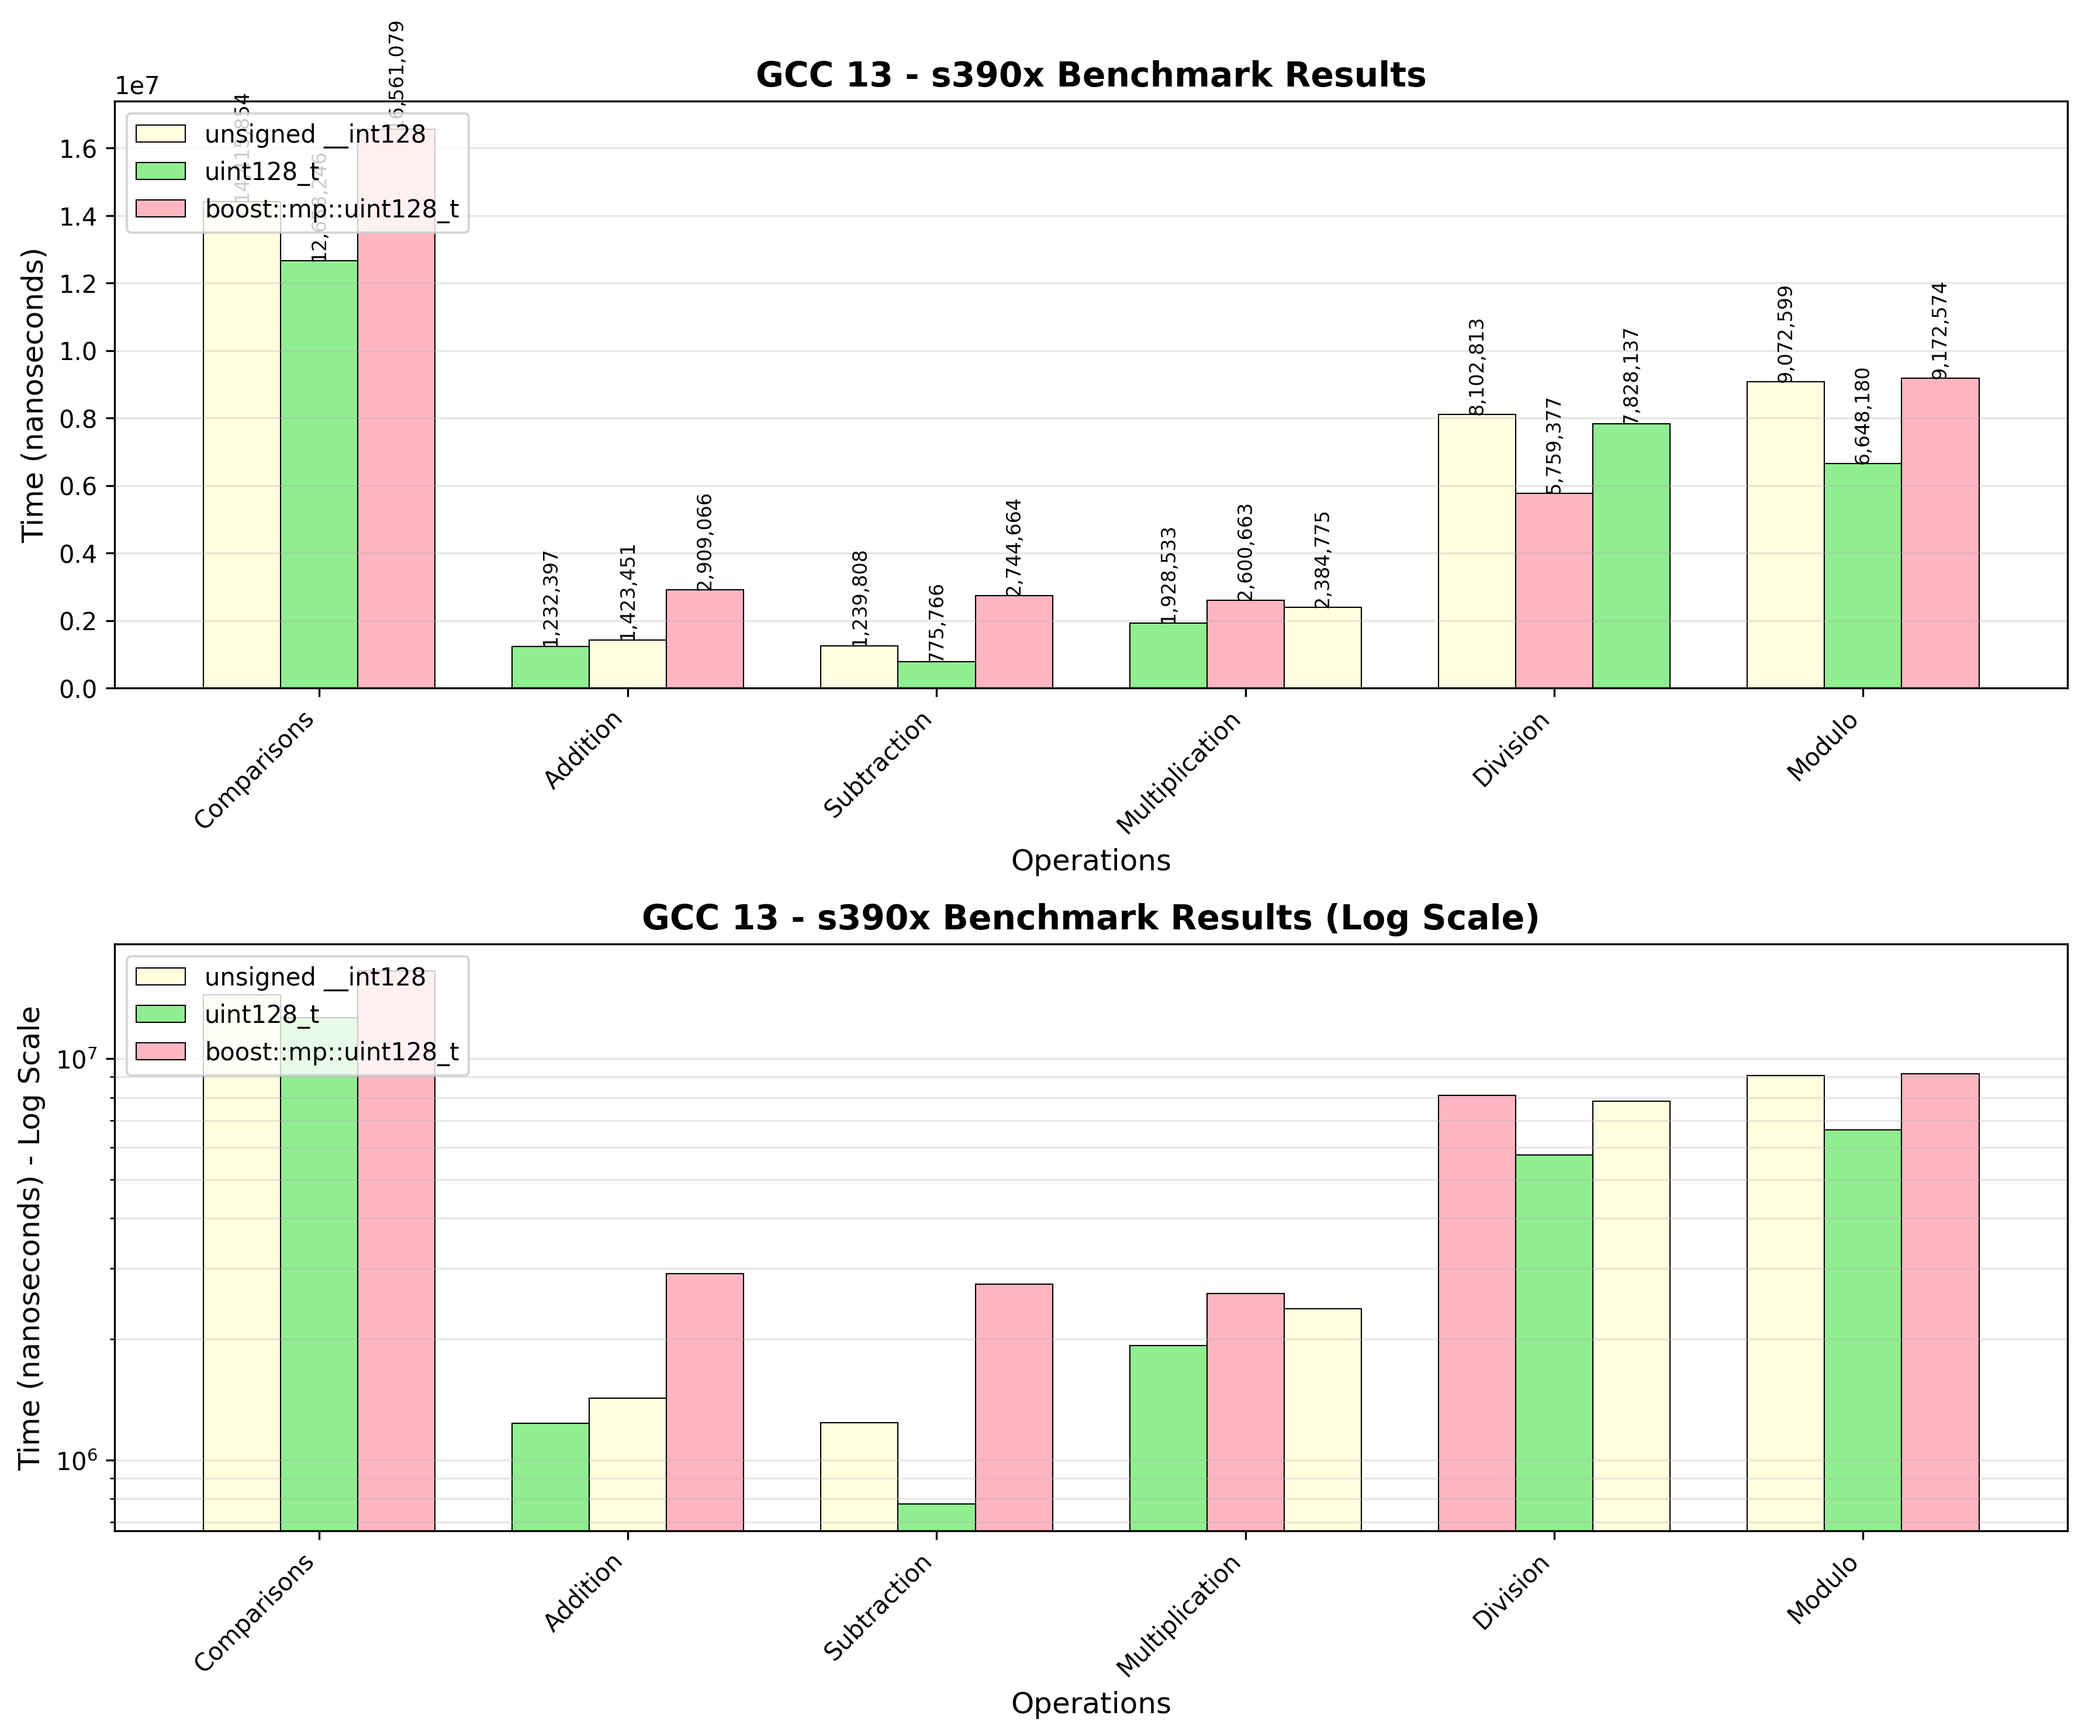
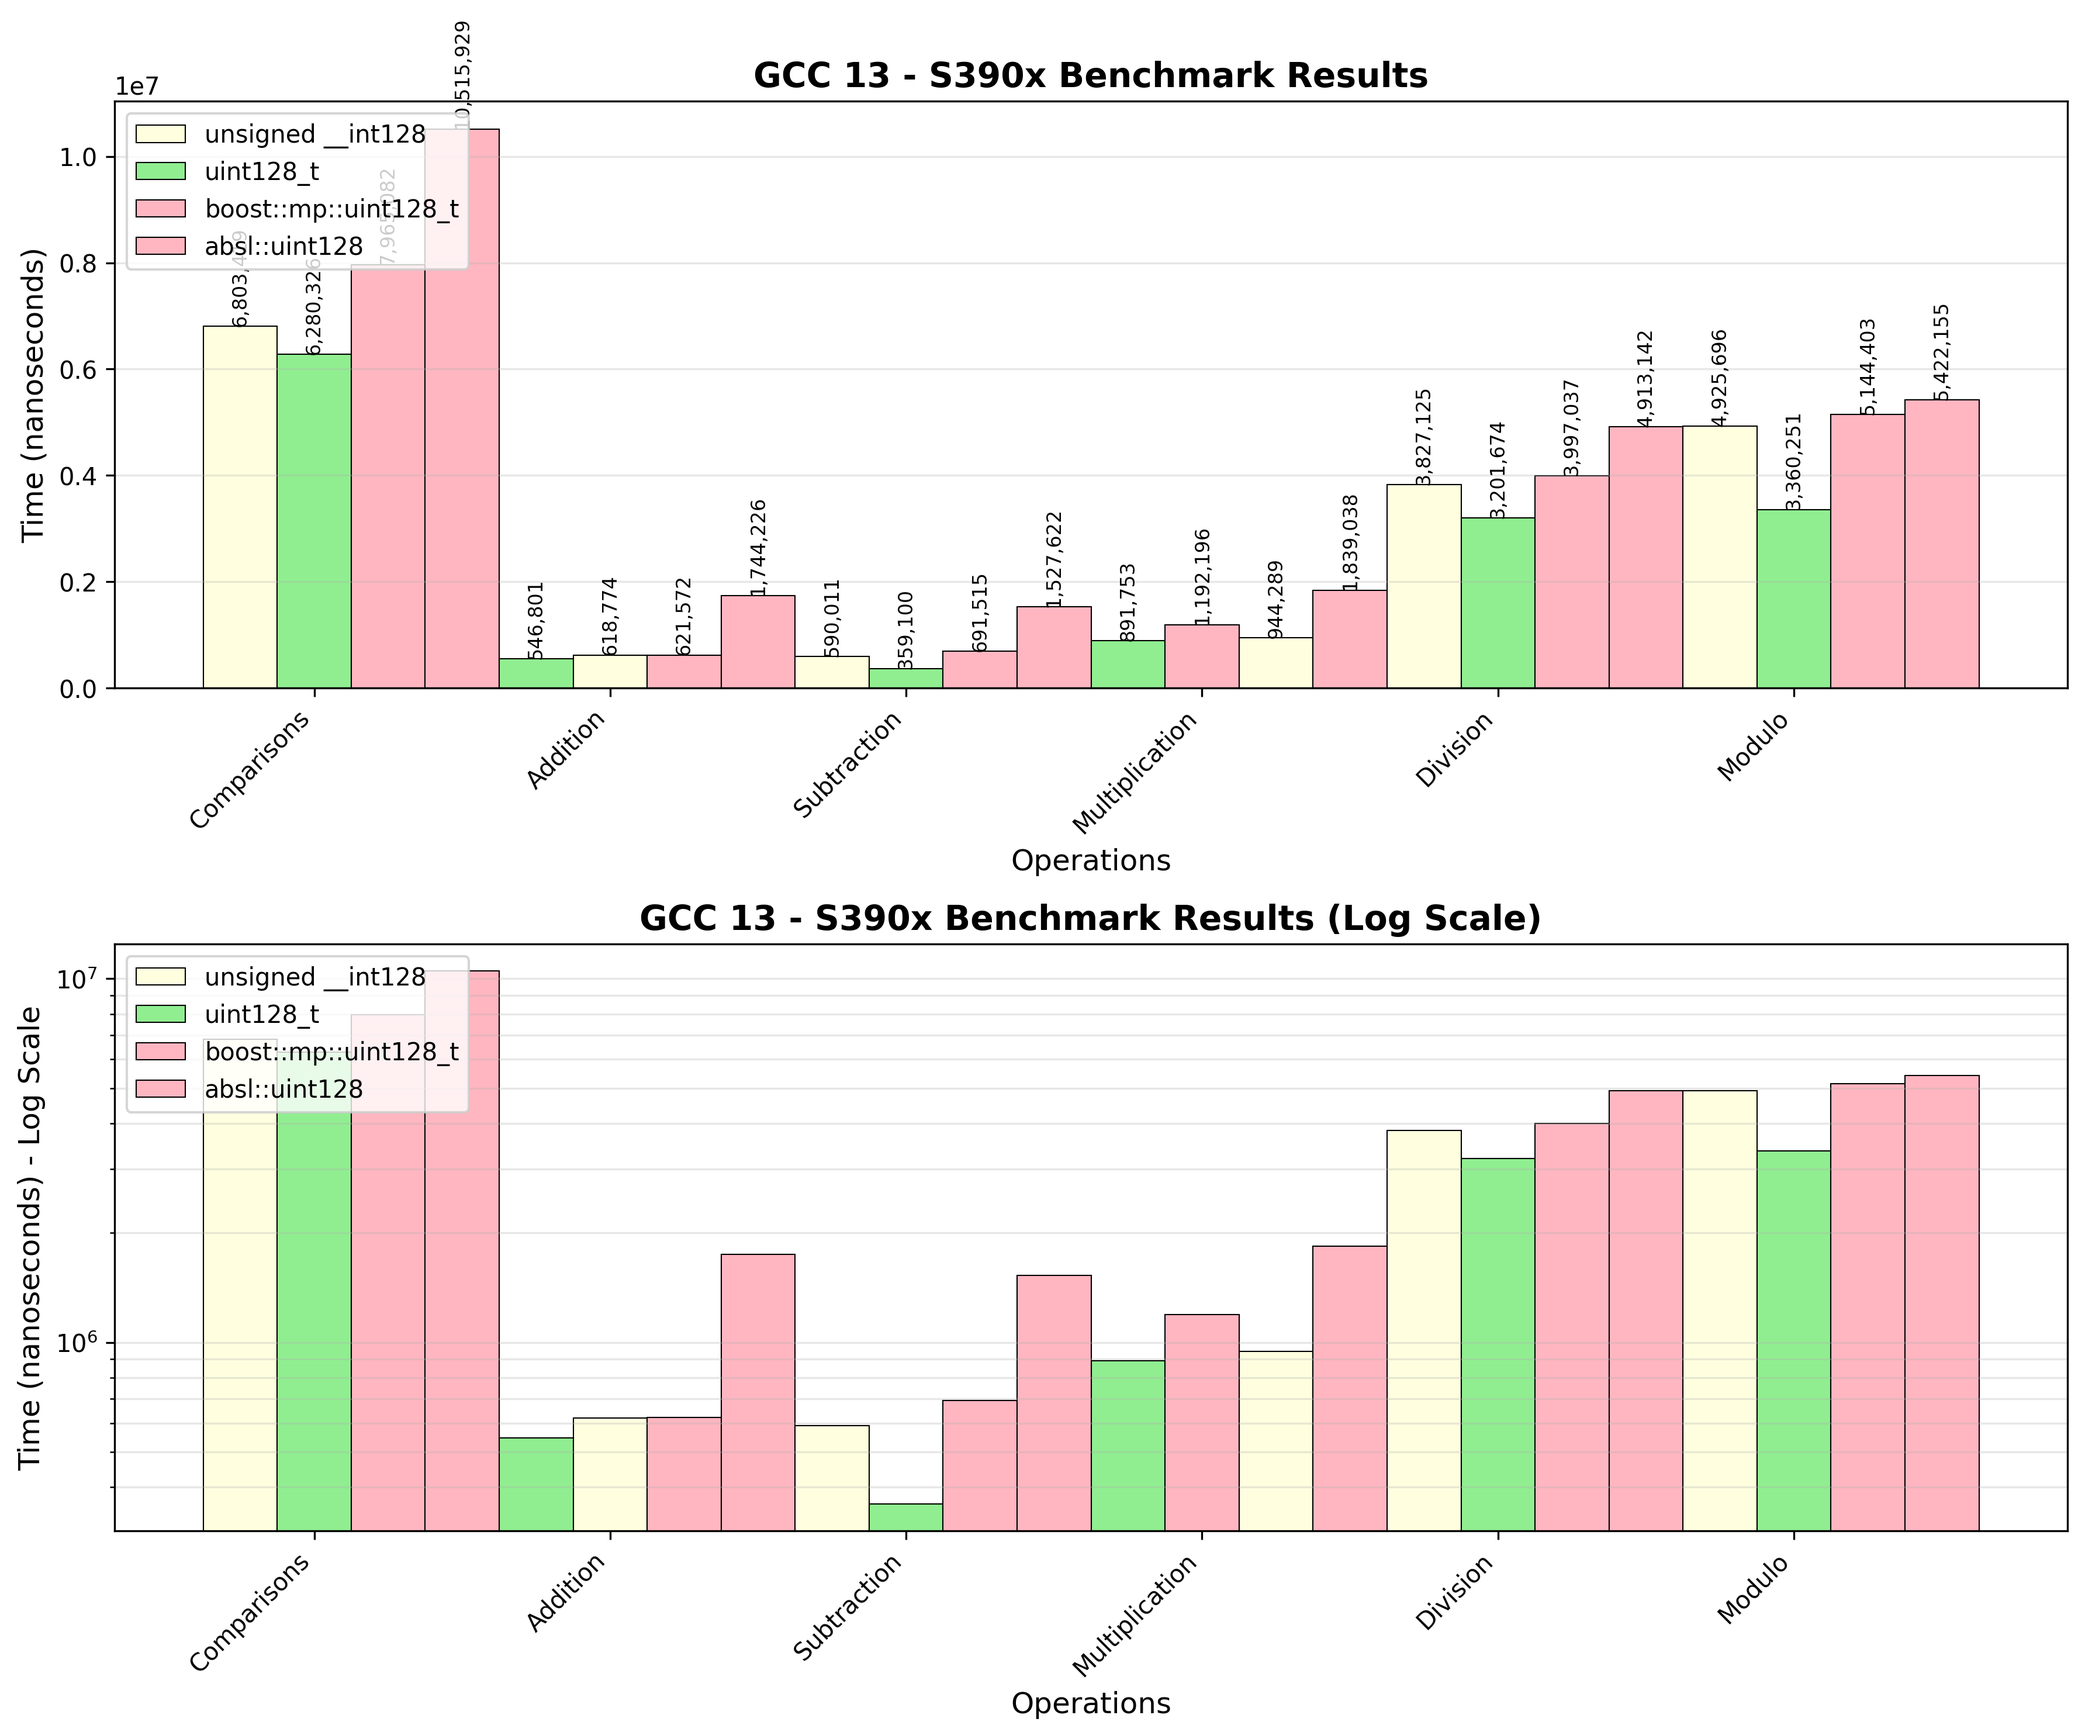
Update s390x data

diff --git a/doc/plots.py b/doc/plots.py
@@ -59,7 +59,7 @@ data = {
     'boost::mp::uint128_t': [3191439, 545521, 420573, 675361, 4976285, 4478923]
 }
 """
-
+"""
 # Linux ARM64
 data = {
     'Operation': ['Comparisons', 'Addition', 'Subtraction', 'Multiplication', 'Division', 'Modulo'],
@@ -68,16 +68,17 @@ data = {
     'boost::mp::uint128_t': [5026689, 587373, 330052, 972009, 2190856, 2227961],
     'absl::uint128': [3753922, 194070, 140777, 244420, 2223032, 2186750]
 }
-
 """
+
 # Linux S390x
 data = {
     'Operation': ['Comparisons', 'Addition', 'Subtraction', 'Multiplication', 'Division', 'Modulo'],
-    'unsigned __int128': [14415854, 1232397, 1239808, 1928533, 8102813, 9072599],
-    'uint128_t': [12658246, 1423451, 775766, 2600663, 5759377, 6648180],
-    'boost::mp::uint128_t': [16561079, 2909066, 2744664, 2384775, 7828137, 9172574]
+    'unsigned __int128': [6803419, 546801, 590011, 891753, 3827125, 4925696],
+    'uint128_t': [6280326, 618774, 359100, 1192196, 3201674, 3360251],
+    'boost::mp::uint128_t': [7965082, 621572, 691515, 944289, 3997037, 5144403],
+    'absl::uint128': [10515929, 1744226, 1527622, 1839038, 4913142, 5422155]
 }
-"""
+
 """
 # Linux ppc64le
 data = {
@@ -124,7 +125,7 @@ for i, (idx, row) in enumerate(df.iterrows()):
 
 ax1.set_xlabel('Operations', fontsize=12)
 ax1.set_ylabel('Time (nanoseconds)', fontsize=12)
-ax1.set_title('GCC 13 - ARM64 Benchmark Results', fontsize=14, fontweight='bold')
+ax1.set_title('GCC 13 - S390x Benchmark Results', fontsize=14, fontweight='bold')
 ax1.set_xticks(x)
 ax1.set_xticklabels(operations, rotation=45, ha='right')
 ax1.legend(loc='upper left')
@@ -153,7 +154,7 @@ for i, impl in enumerate(implementations):
 
 ax2.set_xlabel('Operations', fontsize=12)
 ax2.set_ylabel('Time (nanoseconds) - Log Scale', fontsize=12)
-ax2.set_title('GCC 13 - ARM64 Benchmark Results (Log Scale)', fontsize=14, fontweight='bold')
+ax2.set_title('GCC 13 - S390x Benchmark Results (Log Scale)', fontsize=14, fontweight='bold')
 ax2.set_yscale('log')
 ax2.set_xticks(x)
 ax2.set_xticklabels(operations, rotation=45, ha='right')
@@ -161,7 +162,7 @@ ax2.legend(loc='upper left')
 ax2.grid(axis='y', alpha=0.3, which='both')
 
 plt.tight_layout()
-plt.savefig('ARM64_benchmarks.png', dpi=300, bbox_inches='tight')
+plt.savefig('s390x_benchmarks.png', dpi=300, bbox_inches='tight')
 plt.show()
 
 # Create a normalized performance chart
@@ -190,7 +191,7 @@ ax3.axhline(y=1.0, color='red', linestyle='--', alpha=0.5, label='unsigned __int
 
 ax3.set_xlabel('Operations', fontsize=12)
 ax3.set_ylabel('Relative Performance (vs unsigned __int128)', fontsize=12)
-ax3.set_title('Relative Performance Comparison - ARM64', fontsize=14, fontweight='bold')
+ax3.set_title('Relative Performance Comparison - s390x', fontsize=14, fontweight='bold')
 ax3.set_xticks(x)
 ax3.set_xticklabels(operations, rotation=45, ha='right')
 ax3.legend()
@@ -201,7 +202,7 @@ ax3.text(0.02, 0.98, 'Lower is better', transform=ax3.transAxes,
          fontsize=10, verticalalignment='top', style='italic')
 
 plt.tight_layout()
-plt.savefig('ARM64_relative_performance.png', dpi=300, bbox_inches='tight')
+plt.savefig('s390x_relative_performance.png', dpi=300, bbox_inches='tight')
 plt.show()
 
 # Generate summary statistics
